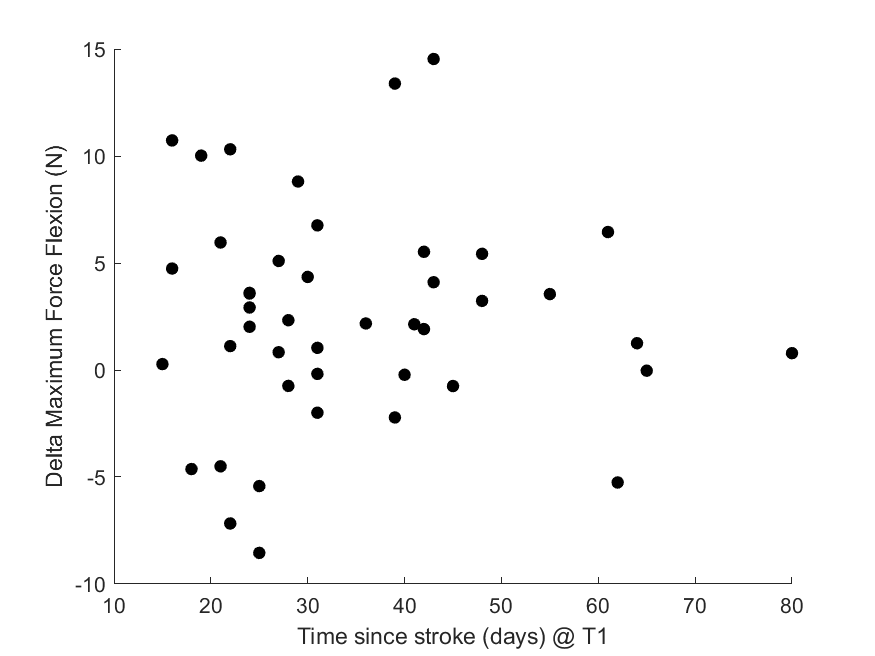
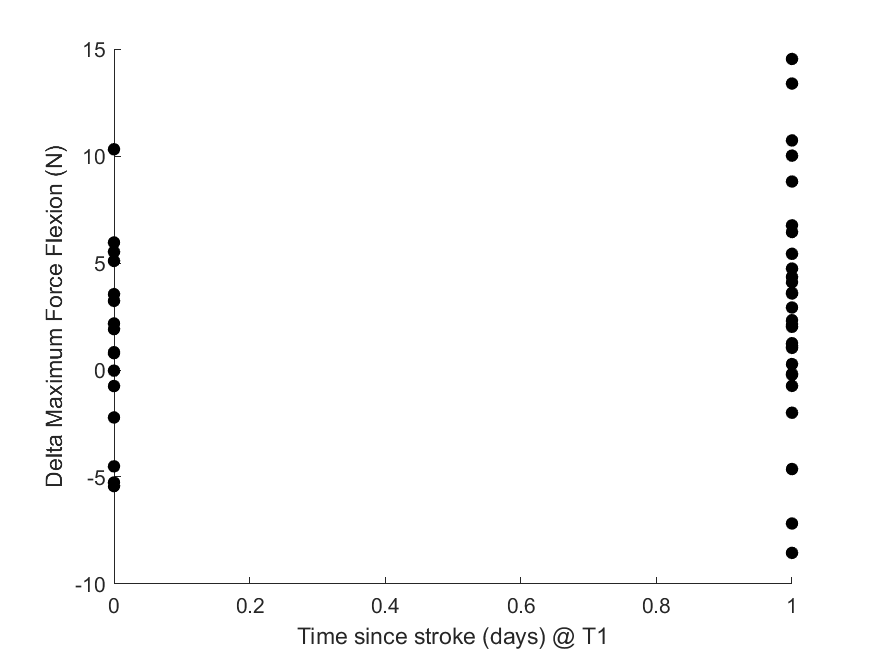
gender factor analysis

diff --git a/MATLAB/AllDataAnalysis/boxplot_robotic_changes_T1T3_otherfactors_v2.m b/MATLAB/AllDataAnalysis/boxplot_robotic_changes_T1T3_otherfactors_v2.m
@@ -25,8 +25,9 @@ T = readtable('data/20211013_DataImpaired.csv');
 % 160 - max vel ext
 % 127 - smoothness MAPR
 % 8 - age
+% 9 - gender 
 
-A = table2array(T(:,[3 5 47 41 48 61 122 114 92 160 8])); 
+A = table2array(T(:,[3 5 47 41 48 61 122 114 92 160 8 9])); 
 % subject session kUDT FMA BBT MoCA PM Force ROM Vel Age TSS
 
 %% time since stroke
@@ -37,7 +38,7 @@ timeSinceStroke = [];
 for i=1:length(timeStroke)
     timeSinceStroke(i,:) = datenum(timeRoboticTest{i,1}) - datenum(timeStroke{i,1}); 
 end
-A(:,12) = timeSinceStroke; 
+A(:,13) = timeSinceStroke; 
 
 %% clean-up the table 
 
@@ -67,6 +68,7 @@ withREDCap2(:,9) = withREDCap(:,9);
 withREDCap2(:,10) = withREDCap(:,10);
 withREDCap2(:,11) = withREDCap(:,11);
 withREDCap2(:,12) = withREDCap(:,12);
+withREDCap2(:,13) = withREDCap(:,13);
 
 C = sortrows(withREDCap2,'ascend'); 
 
@@ -174,7 +176,7 @@ g2 = repmat({'No change (N=15)'},length(nochange.S1(:,1)),1);
 g = [g1;g2]; 
 
 figure; 
-boxplot([change.S1(:,12); nochange.S1(:,12)],g) 
+boxplot([change.S1(:,13); nochange.S1(:,13)],g) 
 b = findobj(gca,'tag','Median');
 set(b,{'linew'},{2})
 colors = {[0.85, 0.85, 0.85], [0.85, 0.85, 0.85]};  
@@ -183,11 +185,11 @@ for j=1:length(h)
     patch(get(h(j),'XData'),get(h(j),'YData'),colors{:,j},'FaceAlpha',0.5);
 end
 hold on 
-for i=1:length(change.S1(:,12))
-    scatter(1,change.S1(i,12),'filled','k'); 
+for i=1:length(change.S1(:,13))
+    scatter(1,change.S1(i,13),'filled','k'); 
 end
-for i=1:length(nochange.S1(:,12))
-    scatter(2,nochange.S1(i,12),'filled','k');
+for i=1:length(nochange.S1(:,13))
+    scatter(2,nochange.S1(i,13),'filled','k');
 end
 xlabel('Groups') 
 ylabel('Time since stroke @ T1') 
@@ -199,7 +201,7 @@ m_tss(1,2) = nanmean(nochange.S1(:,12));
 m_tss(2,2) = nanstd(nochange.S1(:,12)); 
 
 % statistical difference  
-p_tss = kruskalwallis([change.S1(:,12); nochange.S1(:,12)],g); 
+p_tss = kruskalwallis([change.S1(:,13); nochange.S1(:,13)],g); 
 
 %% age
 
@@ -252,7 +254,30 @@ print('plots/BoxPlots/211126_ChangeGroups_MoCA','-dpng')
 % statistical difference  
 p_moca = kruskalwallis([change.S1(:,6); nochange.S1(:,6)],g); 
 
+%% gender
 
+figure; 
+boxplot([change.S1(:,12); nochange.S1(:,12)],g) 
+b = findobj(gca,'tag','Median');
+set(b,{'linew'},{2})
+colors = {[0.85, 0.85, 0.85], [0.85, 0.85, 0.85]};  
+h = findobj(gca,'Tag','Box');
+for j=1:length(h)
+    patch(get(h(j),'XData'),get(h(j),'YData'),colors{:,j},'FaceAlpha',0.5);
+end
+hold on 
+for i=1:length(change.S1(:,12))
+    scatter(1,change.S1(i,12),'filled','k'); 
+end
+for i=1:length(nochange.S1(:,12))
+    scatter(2,nochange.S1(i,12),'filled','k');
+end
+xlabel('Groups') 
+ylabel('Gender') 
+print('plots/BoxPlots/220414_ChangeGroups_Gender','-dpng')
+
+% statistical difference  
+p_gender = kruskalwallis([change.S1(:,12); nochange.S1(:,12)],g); 
 
 
 
